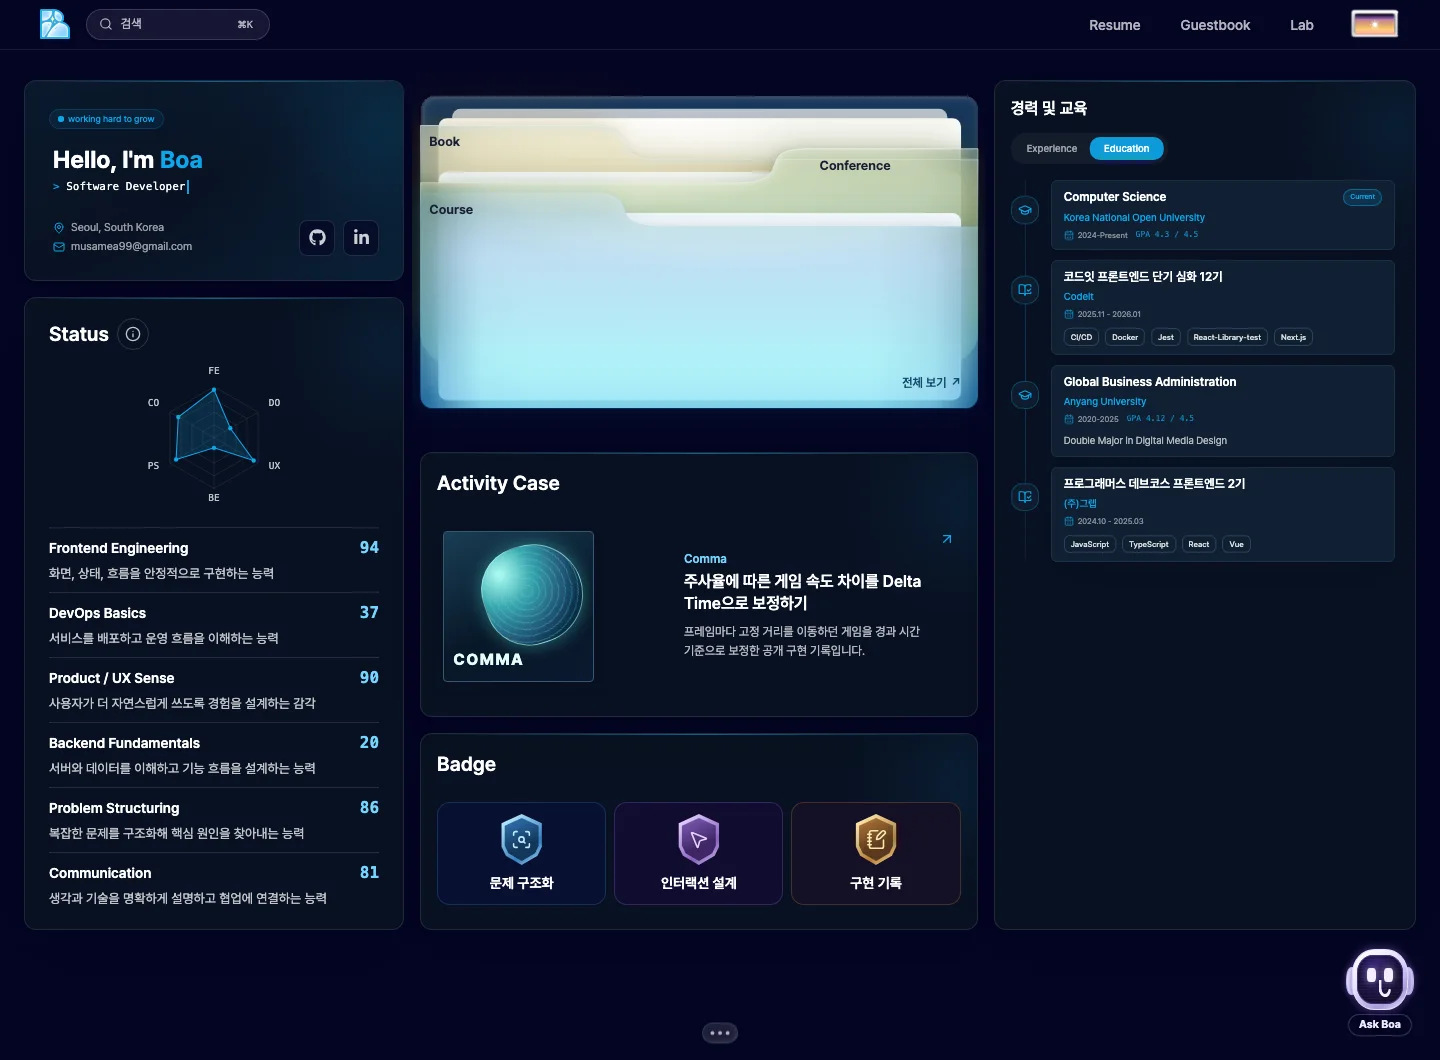
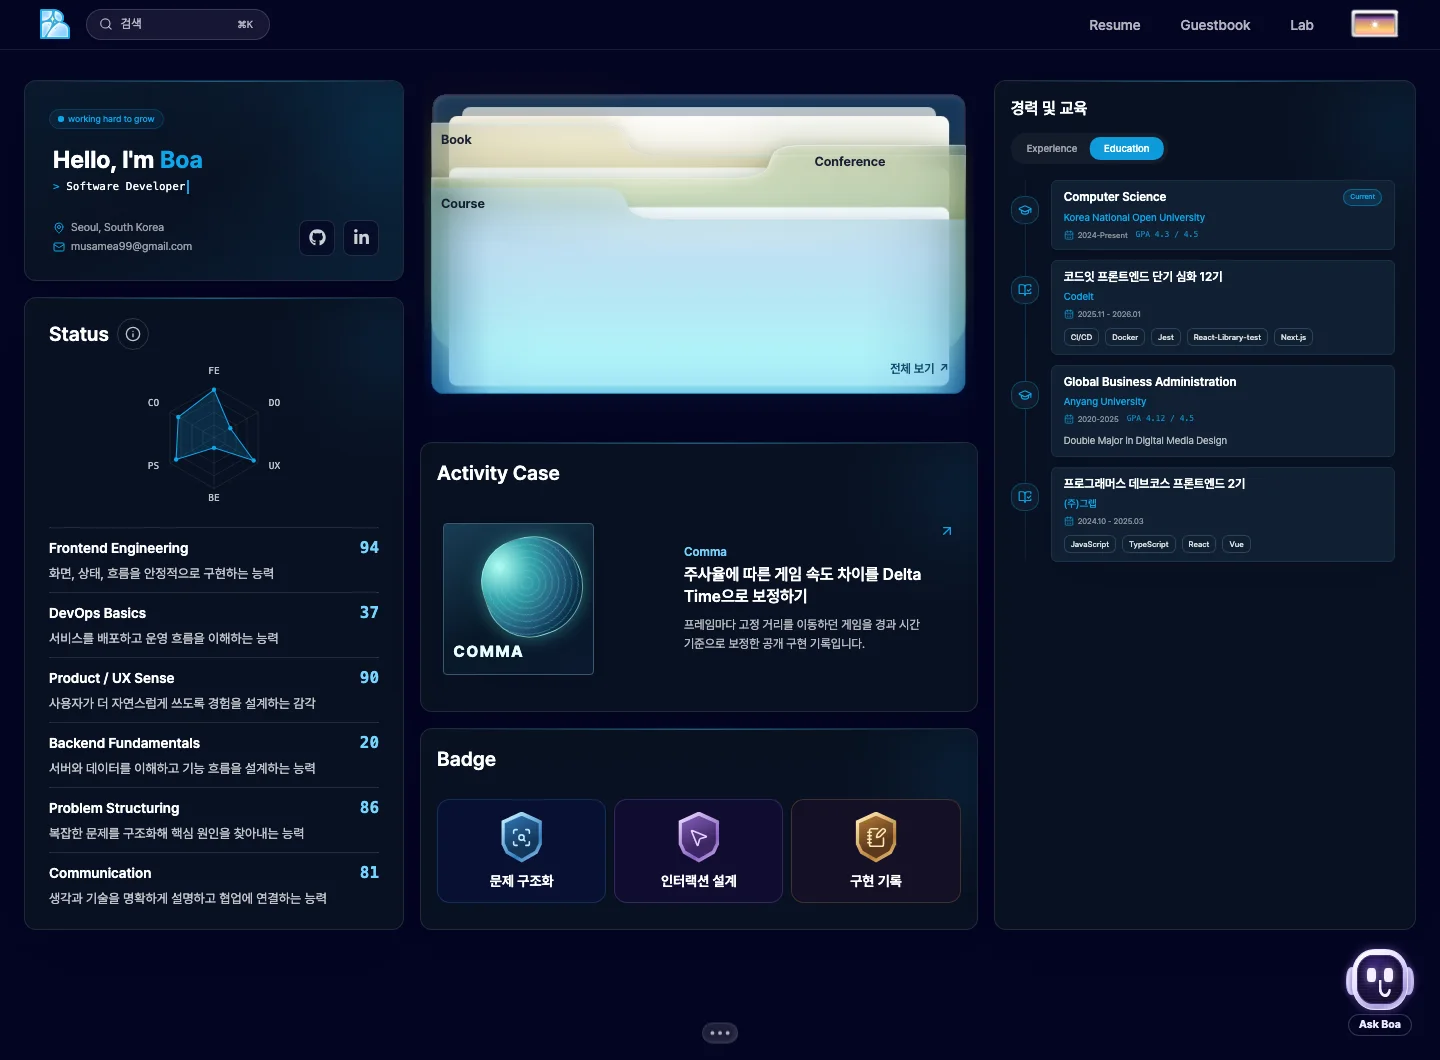
style: add side spacing around the Learning folder

diff --git a/e2e/learning.spec.ts b/e2e/learning.spec.ts
@@ -53,8 +53,11 @@ test("the Resume folder indexes link to their Learning categories", async ({ pag
   ]);
   const folderLeft = artBox!.x + artBox!.width * 0.0948;
   const folderRight = artBox!.x + artBox!.width * 0.9409;
-  expect(Math.abs(folderLeft - activityBox!.x)).toBeLessThan(1);
-  expect(Math.abs(folderRight - (activityBox!.x + activityBox!.width))).toBeLessThan(1);
+  const leftGutter = folderLeft - activityBox!.x;
+  const rightGutter = activityBox!.x + activityBox!.width - folderRight;
+  expect(leftGutter).toBeGreaterThan(7);
+  expect(leftGutter).toBeLessThan(13);
+  expect(Math.abs(leftGutter - rightGutter)).toBeLessThan(1);
   const rightInset = folderRight - (browseBox!.x + browseBox!.width);
   const bottomInset = artBox!.y + artBox!.height * 0.8984 - (browseBox!.y + browseBox!.height);
   expect(rightInset).toBeGreaterThan(0);

diff --git a/src/app/(layout)/(shell)/resume/_components/cards/ResumeCollections.module.css b/src/app/(layout)/(shell)/resume/_components/cards/ResumeCollections.module.css
@@ -7,6 +7,7 @@
 
 .folderViewport {
   display: flow-root;
+  margin-inline: clamp(0.5rem, 1vw, 0.75rem);
   overflow: clip;
   overflow-clip-margin: 8px;
 }
